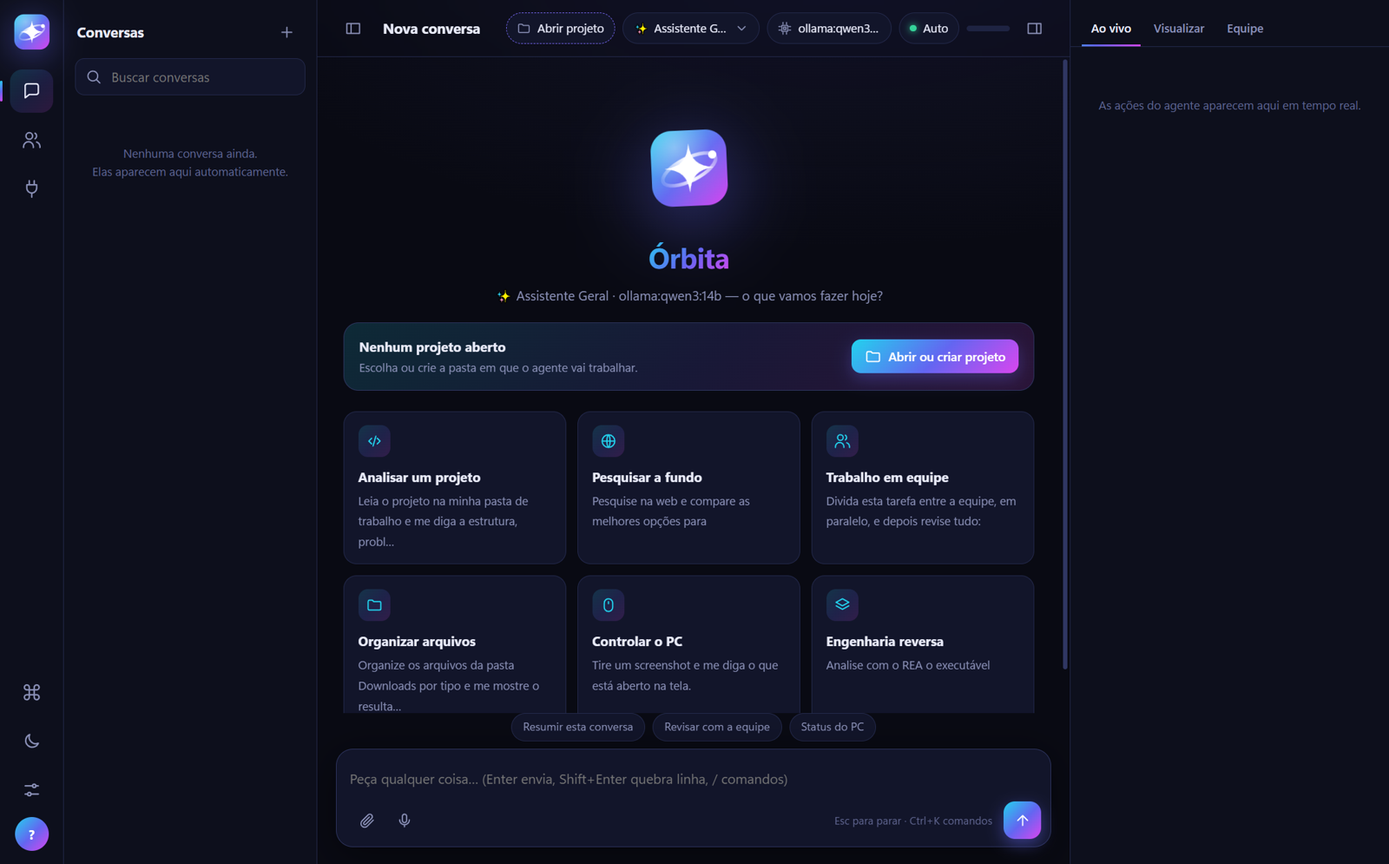
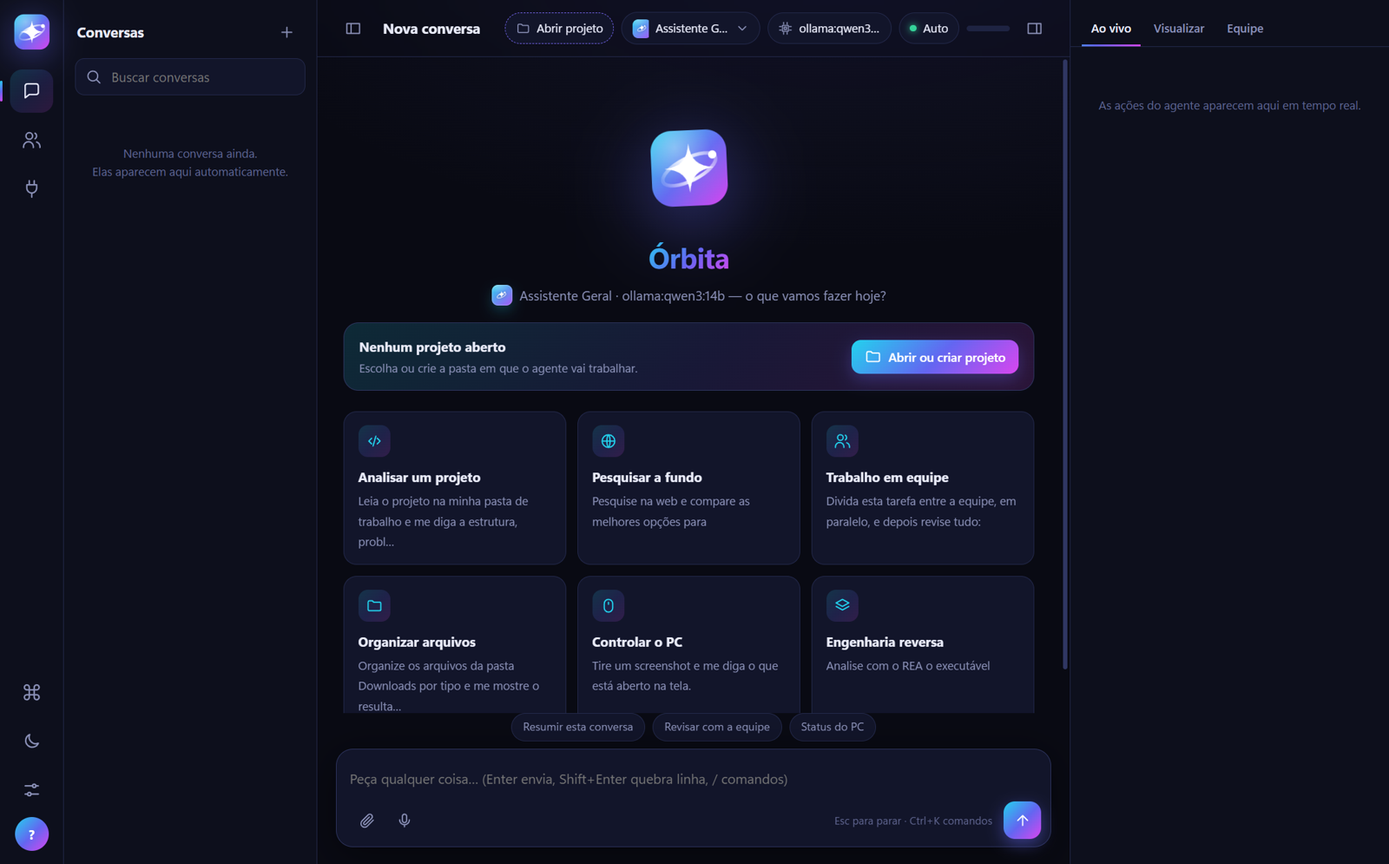
Ícones próprios para os agentes no lugar dos emojis
Cada perfil ganha um símbolo exclusivo em SVG sobre degradê (mesmo estilo do
logo): estrela em órbita, código, revisão, pesquisa, criação, DNA, raio,
automação, liderança e robô. Aparece nos cartões da equipe, no topo, no menu
de perfis, no painel da equipe e no editor, que ganhou um seletor de ícone.
Perfis já salvos com emoji são convertidos na exibição, sem migração.

pyflakes sem avisos, 62 testes; conferido na janela.

diff --git a/agent/ui/web/app.js b/agent/ui/web/app.js
@@ -49,6 +49,54 @@ const ICONS = {
   mouse: "M12 3a6 6 0 0 1 6 6v6a6 6 0 0 1-12 0V9a6 6 0 0 1 6-6zM12 7v3",
   layers: "M12 3l9 5-9 5-9-5zM3 13l9 5 9-5",
 };
+// ── Ícones dos agentes: símbolo próprio sobre degradê (substituem os emojis do Windows) ──
+const S_ = 'stroke="#fff" stroke-width="1.7" stroke-linecap="round" stroke-linejoin="round" fill="none"';
+const F_ = 'fill="#fff"';
+const AGENT_ICONS = {
+  spark: { label: "Órbita", a: "#22d3ee", b: "#a855f7", svg:
+    `<ellipse cx="12" cy="12.5" rx="9.6" ry="3.8" transform="rotate(-24 12 12.5)" ${S_} opacity=".65"/>
+     <path d="M12 3.6c.7 4.3 2.3 5.9 6.6 6.6-4.3.7-5.9 2.3-6.6 6.6-.7-4.3-2.3-5.9-6.6-6.6 4.3-.7 5.9-2.3 6.6-6.6z" ${F_}/>
+     <circle cx="18.6" cy="6" r="1.3" ${F_}/>` },
+  lead: { label: "Liderança", a: "#f59e0b", b: "#ef4444", svg:
+    `<circle cx="12" cy="5.5" r="2.4" ${F_}/><path d="M12 8v3.5M5.5 15.5v-2a2 2 0 0 1 2-2h9a2 2 0 0 1 2 2v2M12 11.5v4" ${S_}/>
+     <circle cx="5.5" cy="18" r="2.1" ${S_}/><circle cx="12" cy="18" r="2.1" ${S_}/><circle cx="18.5" cy="18" r="2.1" ${S_}/>` },
+  code: { label: "Código", a: "#3b82f6", b: "#06b6d4", svg:
+    `<path d="M8.5 7.5 4 12l4.5 4.5M15.5 7.5 20 12l-4.5 4.5" ${S_} stroke-width="2"/><path d="M13.4 5.5l-2.8 13" ${S_} opacity=".8"/>` },
+  review: { label: "Revisão", a: "#10b981", b: "#0d9488", svg:
+    `<circle cx="10.5" cy="10.5" r="6.2" ${S_}/><path d="m15.2 15.2 4.6 4.6" ${S_} stroke-width="2.2"/>
+     <path d="m7.9 10.6 1.9 1.9 3.4-3.6" ${S_} stroke-width="1.9"/>` },
+  research: { label: "Pesquisa", a: "#0ea5e9", b: "#6366f1", svg:
+    `<circle cx="11" cy="13" r="7.2" ${S_}/><path d="M3.8 13h14.4M11 5.8c2.2 2.2 2.2 12.2 0 14.4M11 5.8c-2.2 2.2-2.2 12.2 0 14.4" ${S_} opacity=".75"/>
+     <circle cx="19" cy="5" r="1.7" ${F_}/><path d="M17.6 6.4 15.9 8" ${S_} opacity=".7"/>` },
+  design: { label: "Criação", a: "#ec4899", b: "#f97316", svg:
+    `<path d="M12 3.5a8.5 8.5 0 1 0 0 17c1.1 0 1.7-.8 1.7-1.7 0-1.2-1-1.6-1-2.7 0-.9.8-1.5 1.7-1.5h2.3a3.8 3.8 0 0 0 3.8-3.8c0-4.1-3.8-7.3-8.5-7.3z" ${S_}/>
+     <circle cx="7.6" cy="11" r="1.25" ${F_}/><circle cx="9.9" cy="7.3" r="1.25" ${F_}/><circle cx="14.3" cy="7.3" r="1.25" ${F_}/><circle cx="16.9" cy="10.6" r="1.25" ${F_}/>` },
+  reverse: { label: "Engenharia reversa", a: "#a855f7", b: "#d946ef", svg:
+    `<path d="M7.5 3c0 4.6 9 4.4 9 9s-9 4.4-9 9M16.5 3c0 4.6-9 4.4-9 9s9 4.4 9 9" ${S_}/>
+     <path d="M9 6.2h6M9.4 17.8h5.2" ${S_} opacity=".7"/>` },
+  bolt: { label: "Agente externo", a: "#facc15", b: "#f97316", svg:
+    `<path d="M13.6 2.8 5.2 13.4h5.9l-1 7.8 8.7-11h-6z" ${F_}/>` },
+  cursor: { label: "Automação", a: "#14b8a6", b: "#22c55e", svg:
+    `<path d="M4 6a2 2 0 0 1 2-2h10a2 2 0 0 1 2 2v4.5M4 6v8a2 2 0 0 0 2 2h4.5M4 8h14" ${S_}/>
+     <path d="m13 12.2 7.6 2.9-3.3 1.3-1.3 3.3z" ${F_}/>` },
+  bot: { label: "Agente", a: "#64748b", b: "#6366f1", svg:
+    `<rect x="4.5" y="8" width="15" height="11" rx="3" ${S_}/><path d="M12 4.5V8" ${S_}/><circle cx="12" cy="4" r="1.2" ${F_}/>
+     <circle cx="9.3" cy="13.2" r="1.3" ${F_}/><circle cx="14.7" cy="13.2" r="1.3" ${F_}/>` },
+};
+// Perfis salvos antes trazem emoji: continuam funcionando, agora com o ícone novo.
+const EMOJI_TO_ICON = { "✨": "spark", "🧠": "lead", "💻": "code", "🔍": "review", "🌐": "research", "🎨": "design",
+                        "🧬": "reverse", "⚡": "bolt", "🖱": "cursor", "🖱": "cursor", "🤖": "bot" };
+function agentIconKey(value) {
+  const v = String(value || "").trim();
+  return AGENT_ICONS[v] ? v : (EMOJI_TO_ICON[v] || (v ? null : "bot"));
+}
+function agentIcon(p, size = 40) {
+  const key = agentIconKey(p && p.icon);
+  if (!key) return `<span class="agent-ic emoji" style="--s:${size}px">${esc(p.icon)}</span>`;  // emoji escolhido pelo usuário
+  const ic = AGENT_ICONS[key];
+  return `<span class="agent-ic" style="--s:${size}px;--a:${ic.a};--b:${ic.b}" title="${esc(ic.label)}"><svg viewBox="0 0 24 24">${ic.svg}</svg></span>`;
+}
+
 function icon(name, cls = "i") {
   return `<svg class="${cls}" viewBox="0 0 24 24"><path d="${ICONS[name] || ICONS.sparkle}"/></svg>`;
 }
@@ -197,7 +245,7 @@ function autosize() { const i = $("#input"); i.style.height = "auto"; i.style.he
 // ── Topo do chat ───────────────────────────────────────────────────────────────
 function renderTopbar() {
   const p = S.profile || {};
-  $("#profile-ic").textContent = p.icon || "✨";
+  $("#profile-ic").innerHTML = agentIcon(p, 20);
   $("#profile-name").textContent = p.name || "Perfil";
   $("#project-name").textContent = S.workspace_set ? (S.workspace_name || "Projeto") : "Abrir projeto";
   $("#chip-project").classList.toggle("need", !S.workspace_set);
@@ -223,11 +271,11 @@ async function cyclePermission() {
 }
 function profileMenu() {
   openModal(`<div class="modal palette"><input id="pf-q" placeholder="Trocar perfil…"><div class="opts">${
-    S.profiles.map(p => `<div class="opt" data-id="${esc(p.id)}"><span style="font-size:18px">${esc(p.icon)}</span><div><b>${esc(p.name)}</b><div style="font-size:12px">${esc(p.description)}</div></div>${p.id === S.profile.id ? icon("check") : ""}</div>`).join("")
+    S.profiles.map(p => `<div class="opt" data-id="${esc(p.id)}">${agentIcon(p, 34)}<div><b>${esc(p.name)}</b><div style="font-size:12px">${esc(p.description)}</div></div>${p.id === S.profile.id ? icon("check") : ""}</div>`).join("")
   }</div></div>`);
   $$(".opt", $("#modal-root")).forEach(o => o.addEventListener("click", async () => {
     S = await call("selectProfile", o.dataset.id); closeModal(); renderAll();
-    toast("success", "Perfil ativo", `${S.profile.icon} ${S.profile.name} · ${S.model_label}`);
+    toast("success", "Perfil ativo", `${S.profile.name} · ${S.model_label}`);
   }));
   filterOpts("#pf-q");
 }
@@ -300,7 +348,7 @@ function renderWelcome() {
   const project = S.workspace_set ? (S.workspace || "") : "";
   $("#messages").innerHTML = `<div class="welcome"><img class="orb" src="logo.svg" alt="">
     <h1>${name ? `Olá, <span>${esc(name)}</span>` : `<span>Órbita</span>`}</h1>
-    <p>${esc(S.profile?.icon || "")} ${esc(S.profile?.name || "")} · ${esc(S.model_label || "")} — o que vamos fazer hoje?</p>
+    <p class="who-line">${agentIcon(S.profile, 22)} ${esc(S.profile?.name || "")} · ${esc(S.model_label || "")} — o que vamos fazer hoje?</p>
     <div class="project-banner"><div class="txt"><b>${project ? "Projeto aberto" : "Nenhum projeto aberto"}</b><span>${project ? esc(project) : "Escolha ou crie a pasta em que o agente vai trabalhar."}</span></div><button class="btn primary" id="welcome-project">${icon("folder")} ${project ? "Trocar projeto" : "Abrir ou criar projeto"}</button></div>
     <div class="cards">${cards.map(([ic, t, p]) => `<div class="card" data-prompt="${esc(p)}"><div class="ci">${icon(ic)}</div><b>${t}</b><span>${esc(p.length > 70 ? p.slice(0, 70) + "…" : p)}</span></div>`).join("")}</div></div>`;
   const openProject = $("#welcome-project");
@@ -461,7 +509,7 @@ function feed(kind, html) {
 }
 function renderAgents(live = {}) {
   const team = S.team || [];
-  $("#agents").innerHTML = team.map(m => `<div class="agent-row"><span class="em">${esc(m.icon)}</span><div class="grow"><b>${esc(m.name)}</b><div class="sm">${esc(m.model_label)}</div></div>${live[m.name] ? `<span class="spin"></span>` : ""}</div>`).join("")
+  $("#agents").innerHTML = team.map(m => `<div class="agent-row">${agentIcon(m, 30)}<div class="grow"><b>${esc(m.name)}</b><div class="sm">${esc(m.model_label)}</div></div>${live[m.name] ? `<span class="spin"></span>` : ""}</div>`).join("")
     + `<button class="btn small" data-go="team">${icon("edit")} Configurar equipe</button>`;
 }
 function setLive(on, text) {
@@ -493,13 +541,13 @@ function onEvent(e) {
       else feed(e.status, `${e.status === "ok" ? "✓" : "✗"} ${esc(toolInfo(e.name)[1])}`);
       if ((e.images || []).length) preview({ path: e.images[0], kind: "image" });
       break;
-    case "sub_start": subCard(e, false); feed("sub", `👥 <b>${esc(e.agent)}</b> começou com <b>${esc(e.model)}</b>`); renderAgents({ [e.agent.replace(/ #\d+$/, "")]: true }); break;
+    case "sub_start": subCard(e, false); feed("sub", `<b>${esc(e.agent)}</b> começou com <b>${esc(e.model)}</b>`); renderAgents({ [e.agent.replace(/ #\d+$/, "")]: true }); break;
     case "sub_end": subCard(e, true); feed("ok", `✓ <b>${esc(e.agent)}</b> terminou (${fmt(e.tokens)} tokens)`); renderAgents(); break;
     case "status": setLive(true, e.text); break;
     case "usage": S.conversation_tokens = e.total; updateMeter(e.total); break;
     case "turn_end": closeTurn(); refreshConvs().then(() => { S.conversation_id = e.conversation_id || S.conversation_id; S.conversation_title = e.title || S.conversation_title; renderTopbar(); renderConvs(); }); break;
     case "error": note("⚠ " + e.message, "err"); toast("error", "Erro", e.message); break;
-    case "compacted": note(`🗜 Histórico compactado: ${e.messages} mensagens antigas viraram um resumo`); break;
+    case "compacted": note(`Histórico compactado: ${e.messages} mensagens antigas viraram um resumo`); break;
     case "approval": approval(e); break;
     case "preview": preview(e); break;
     case "toast": toast(e.kind, e.title, e.text); break;
@@ -590,7 +638,7 @@ function palette(initial = "") {
     ["moon", "Alternar tema claro/escuro", () => action("theme")],
     ["key", "Chaves de API", () => { settingsSection = "chaves"; go("settings"); }],
     ["bolt", "Conta Grok (xAI)", () => { settingsSection = "grok"; go("settings"); }],
-    ...(S.profiles || []).map(p => [null, `Perfil: ${p.icon} ${p.name}`, async () => { S = await call("selectProfile", p.id); renderAll(); toast("success", "Perfil ativo", p.name); }]),
+    ...(S.profiles || []).map(p => [null, `Perfil: ${p.name}`, async () => { S = await call("selectProfile", p.id); renderAll(); toast("success", "Perfil ativo", p.name); }]),
     ...(S.quick_prompts || []).map(q => ["sparkle", `Prompt: ${q.label}`, () => { $("#input").value = q.text; autosize(); $("#input").focus(); }]),
   ];
   openModal(`<div class="modal palette"><input id="pl-q" placeholder="Digite um comando…" value="${esc(initial)}"><div class="opts">${
@@ -619,7 +667,7 @@ function filterOpts(sel) {
 
 // ── Página: Equipe e perfis ────────────────────────────────────────────────────
 function renderTeamPage() {
-  const tile = p => `<div class="tile"><div class="top"><div class="em">${esc(p.icon)}</div><div style="flex:1"><h3>${esc(p.name)}</h3>
+  const tile = p => `<div class="tile"><div class="top"><div class="em has-ic">${agentIcon(p, 44)}</div><div style="flex:1"><h3>${esc(p.name)}</h3>
     ${p.in_team ? `<span class="tag grad">equipe</span>` : ""}${p.id === S.profile.id ? `<span class="tag grad">ativo</span>` : ""}${p.auto_startup ? `<span class="tag">prompt inicial</span>` : ""}</div></div>
     <div class="desc">${esc(p.description || "Sem descrição")}</div>
     <div>${(p.skills_tags || []).map(t => `<span class="tag">${esc(t)}</span>`).join("")}</div>
@@ -639,10 +687,12 @@ function providerOptions(selected, allowEmpty) {
 }
 function profileEditor(p) {
   const isNew = !p;
-  p = p || { id: "", name: "", icon: "🤖", description: "", system_prompt: "", startup_prompt: "", auto_startup: false, provider: "", model: "", temperature: null, effort: "", workspace: "", tool_groups: S.all_groups, mcp_servers: [], max_steps: null, in_team: false, skills_tags: [], bound: false };
+  p = p || { id: "", name: "", icon: "bot", description: "", system_prompt: "", startup_prompt: "", auto_startup: false, provider: "", model: "", temperature: null, effort: "", workspace: "", tool_groups: S.all_groups, mcp_servers: [], max_steps: null, in_team: false, skills_tags: [], bound: false };
   const groupLabels = { arquivos: "Arquivos", shell: "Terminal", web: "Internet", pc: "Controle do PC", memoria: "Memória", skills: "Skills", agentes: "Equipe", mcp: "MCP", imagem: "Imagens" };
   openModal(`<div class="modal wide"><h2>${isNew ? "Novo perfil" : "Editar perfil"}</h2><p class="sub">O prompt de sistema entra em toda conversa; o prompt inicial é enviado sozinho ao abrir uma conversa.</p>
-    <div class="row"><input class="inp" id="pe-icon" style="width:64px;text-align:center;font-size:18px" value="${esc(p.icon)}"><input class="inp" id="pe-name" style="flex:1" placeholder="Nome" value="${esc(p.name)}"></div>
+    <div class="row"><input type="hidden" id="pe-icon" value="${esc(agentIconKey(p.icon) || p.icon)}"><input class="inp" id="pe-name" style="flex:1" placeholder="Nome" value="${esc(p.name)}"></div>
+    <div class="icon-pick" id="pe-icons" style="margin-top:10px">${Object.keys(AGENT_ICONS).map(k =>
+      `<button type="button" data-icon="${k}" class="${(agentIconKey(p.icon) || "") === k ? "on" : ""}" title="${esc(AGENT_ICONS[k].label)}">${agentIcon({ icon: k }, 34)}</button>`).join("")}</div>
     <div style="margin-top:10px"><input class="inp" id="pe-desc" placeholder="Descrição de uma linha (o agente principal lê isto para delegar)" value="${esc(p.description)}"></div>
     <div style="margin-top:12px"><b>Prompt de sistema (injeção)</b><textarea class="inp" id="pe-sys" placeholder="Ex.: Você é especialista em React + TypeScript…">${esc(p.system_prompt)}</textarea></div>
     <div style="margin-top:12px"><b>Prompt inicial</b><textarea class="inp" id="pe-start" style="min-height:70px" placeholder="Ex.: Leia o README do projeto e me diga o estado atual.">${esc(p.startup_prompt)}</textarea>
@@ -660,11 +710,15 @@ function profileEditor(p) {
     <div class="actions">${!isNew && p.id !== "geral" ? `<button class="btn danger" id="pe-del">${icon("trash")} Apagar</button>` : ""}<span style="flex:1"></span><button class="btn" id="pe-cancel">Cancelar</button><button class="btn primary" id="pe-save">Salvar perfil</button></div></div>`, false);
   const fillModels = () => { const prov = S.providers.find(x => x.id === $("#pe-prov").value); $("#pe-models").innerHTML = (prov?.models || []).map(m => `<option value="${esc(m)}">`).join(""); };
   $("#pe-prov").onchange = fillModels; fillModels();
+  $$("[data-icon]", $("#pe-icons")).forEach(b => b.addEventListener("click", () => {
+    $("#pe-icon").value = b.dataset.icon;
+    $$("[data-icon]", $("#pe-icons")).forEach(x => x.classList.toggle("on", x === b));
+  }));
   $("#pe-pick").onclick = async () => { const f = await call("pickFolder", $("#pe-ws").value); if (f) $("#pe-ws").value = f; };
   $("#pe-cancel").onclick = closeModal;
   if ($("#pe-del")) $("#pe-del").onclick = async () => { if (await confirmBox("Apagar perfil?", p.name)) { S = await call("deleteProfile", p.id); renderAll(); renderTeamPage(); } };
   $("#pe-save").onclick = async () => {
-    const data = { id: p.id, name: $("#pe-name").value.trim(), icon: $("#pe-icon").value.trim() || "🤖", description: $("#pe-desc").value.trim(),
+    const data = { id: p.id, name: $("#pe-name").value.trim(), icon: $("#pe-icon").value.trim() || "bot", description: $("#pe-desc").value.trim(),
       system_prompt: $("#pe-sys").value.trim(), startup_prompt: $("#pe-start").value.trim(), auto_startup: $("#pe-auto").checked,
       provider: $("#pe-prov").value, model: $("#pe-prov").value ? $("#pe-model").value.trim() : "",
       temperature: $("#pe-temp").value === "" ? null : +$("#pe-temp").value, effort: p.effort || "", max_tokens: p.max_tokens ?? null,
@@ -1017,7 +1071,7 @@ function showOnboarding() {
     $("#ob-next").onclick = async () => {
       if (step < steps.length - 1) { step++; return render(); }
       S = await call("completeOnboarding", JSON.stringify(data)); closeModal(); renderAll();
-      toast("success", "Configuração concluída", `${S.profile.icon} ${S.profile.name} · ${S.model_label}`);
+      toast("success", "Configuração concluída", `${S.profile.name} · ${S.model_label}`);
     };
   };
   const detail = () => {

diff --git a/agent/ui/web/app.css b/agent/ui/web/app.css
@@ -374,3 +374,22 @@ label.row { cursor: pointer; }
 @media (max-width: 1700px) { #meter-txt { display: none; } #topbar #chip-project { max-width: 170px; } }
 @media (max-width: 1450px) { #profile-name { display: none; } }
 .toast span { overflow-wrap: anywhere; }
+
+/* ── Ícones dos agentes ───────────────────────── */
+.agent-ic { --s: 40px; width: var(--s); height: var(--s); flex: none; display: inline-grid; place-items: center;
+  border-radius: calc(var(--s) * .3); position: relative; overflow: hidden; vertical-align: middle;
+  background: linear-gradient(140deg, var(--a), var(--b));
+  box-shadow: 0 6px 18px -6px var(--a), inset 0 0 0 1px rgba(255,255,255,.18);
+  transition: transform .2s ease, box-shadow .2s ease; }
+.agent-ic::after { content: ""; position: absolute; inset: 0; border-radius: inherit;
+  background: radial-gradient(120% 70% at 25% 0%, rgba(255,255,255,.38), transparent 55%); pointer-events: none; }
+.agent-ic svg { width: 58%; height: 58%; position: relative; z-index: 1; filter: drop-shadow(0 1px 1.5px rgba(0,0,0,.25)); }
+.agent-ic.emoji { background: var(--panel3); box-shadow: inset 0 0 0 1px var(--line2); font-size: calc(var(--s) * .5); }
+.tile:hover .agent-ic, .opt:hover .agent-ic, .agent-row:hover .agent-ic { transform: translateY(-1px) rotate(-4deg) scale(1.04);
+  box-shadow: 0 10px 24px -6px var(--a), inset 0 0 0 1px rgba(255,255,255,.25); }
+.tile .em.has-ic { background: none; width: auto; height: auto; }
+.chip .agent-ic { box-shadow: none; }
+.icon-pick { display: flex; flex-wrap: wrap; gap: 8px; }
+.icon-pick button { border: 2px solid transparent; background: none; padding: 2px; border-radius: 14px; cursor: pointer; }
+.icon-pick button.on { border-color: var(--accent); }
+.welcome .who-line { display: flex; align-items: center; justify-content: center; gap: 8px; flex-wrap: wrap; }

diff --git a/agent/ui/web/index.html b/agent/ui/web/index.html
@@ -39,7 +39,7 @@
         <button class="icon-btn" data-action="toggle-convs" title="Mostrar/ocultar conversas"><svg class="i" data-ic="sidebar"></svg></button>
         <div id="conv-title" contenteditable="true" spellcheck="false">Nova conversa</div>
         <button class="chip need" id="chip-project" title="Abrir ou criar a pasta do projeto"><svg class="i" data-ic="folder"></svg><span id="project-name">Abrir projeto</span></button>
-        <button class="chip" id="chip-profile" title="Trocar perfil"><span id="profile-ic">✨</span><span id="profile-name">Perfil</span><svg class="i" data-ic="chevdown"></svg></button>
+        <button class="chip" id="chip-profile" title="Trocar perfil"><span id="profile-ic"></span><span id="profile-name">Perfil</span><svg class="i" data-ic="chevdown"></svg></button>
         <button class="chip" id="chip-model" title="Modelo — altere em Configurações › Modelos"><svg class="i" data-ic="cpu"></svg><span id="model-name">modelo</span></button>
         <button class="chip" id="chip-perm" title="Permissões (clique para alternar)"><span class="led"></span><span id="perm-name">auto</span></button>
         <div class="meter" title="Tokens desta conversa / orçamento por tarefa"><div class="bar"><i id="meter-bar"></i></div><span id="meter-txt">0</span></div>

diff --git a/agent/core/profiles.py b/agent/core/profiles.py
@@ -37,7 +37,7 @@ ALL_GROUPS = ["arquivos", "shell", "web", "pc", "memoria", "skills", "agentes", 
 class Profile:
     id: str
     name: str
-    icon: str = "🤖"
+    icon: str = "bot"                     # chave de ícone da interface (spark, code, review...) ou emoji
     description: str = ""
     system_prompt: str = ""
     startup_prompt: str = ""
@@ -73,19 +73,19 @@ LEAD_DEV_PROMPT = """Você é o LÍDER TÉCNICO de uma equipe de agentes de IA. 
 
 DEFAULT_PROFILES: list[Profile] = [
     Profile(
-        id="geral", name="Assistente Geral", icon="✨",
+        id="geral", name="Assistente Geral", icon="spark",
         description="Agente principal: conversa, pesquisa, arquivos, PC e coordena a equipe.",
         system_prompt="Seja um parceiro proativo, técnico e direto. Resolva o pedido de ponta a ponta usando as "
                       "ferramentas, carregue skills relevantes com use_skill e valide alterações com verify_project.",
     ),
     Profile(
-        id="lider_dev", name="Líder de Desenvolvimento", icon="🧠",
+        id="lider_dev", name="Líder de Desenvolvimento", icon="lead",
         description="Planeja, divide o trabalho entre programadores em paralelo, revisa e integra.",
         system_prompt=LEAD_DEV_PROMPT,
         tool_groups=["arquivos", "shell", "web", "memoria", "skills", "agentes", "mcp", "imagem"],
     ),
     Profile(
-        id="programador", name="Programador", icon="💻", in_team=True,
+        id="programador", name="Programador", icon="code", in_team=True,
         description="Implementa código com qualidade: lê antes de editar, faz mudanças mínimas e testa.",
         skills_tags=["código", "debug", "testes", "refatoração"],
         system_prompt="Você é um Staff Software Engineer. Leia o código relevante antes de editar, siga o estilo "
@@ -95,7 +95,7 @@ DEFAULT_PROFILES: list[Profile] = [
         temperature=0.2,
     ),
     Profile(
-        id="revisor", name="Revisor de Código", icon="🔍", in_team=True,
+        id="revisor", name="Revisor de Código", icon="review", in_team=True,
         description="Revisa código procurando bugs reais, falhas de segurança, gargalos e código morto.",
         skills_tags=["revisão", "segurança", "desempenho"],
         system_prompt="Você é um revisor de código exigente (use a skill 'code-review-simplify' quando aplicável). "
@@ -106,7 +106,7 @@ DEFAULT_PROFILES: list[Profile] = [
         temperature=0.1,
     ),
     Profile(
-        id="pesquisador", name="Pesquisador", icon="🌐", in_team=True,
+        id="pesquisador", name="Pesquisador", icon="research", in_team=True,
         description="Pesquisa na web, lê fontes e entrega respostas com citações. Bom para descobrir "
                     "bibliotecas, APIs, modelos e as melhores ferramentas para uma tarefa.",
         skills_tags=["pesquisa", "comparação", "documentação"],
@@ -117,7 +117,7 @@ DEFAULT_PROFILES: list[Profile] = [
         temperature=0.3,
     ),
     Profile(
-        id="designer", name="Designer & Criativo", icon="🎨", in_team=True,
+        id="designer", name="Designer & Criativo", icon="design", in_team=True,
         description="Cria imagens, ícones, UI assets, storyboards e vídeos com consistência visual.",
         skills_tags=["imagem", "vídeo", "ícones", "UI"],
         system_prompt="Você é um diretor de arte e criador multimídia. Para séries, storyboards ou vídeos, "
@@ -126,7 +126,7 @@ DEFAULT_PROFILES: list[Profile] = [
         tool_groups=["imagem", "arquivos", "shell", "skills"],
     ),
     Profile(
-        id="engenharia_reversa", name="Engenharia Reversa (REA)", icon="🧬", in_team=True,
+        id="engenharia_reversa", name="Engenharia Reversa (REA)", icon="reverse", in_team=True,
         description="Analisa binários, apps Electron/JS, .NET, APKs, sites e firmware com o REA.",
         skills_tags=["engenharia reversa", "binários", "decompilação"],
         system_prompt="Use o servidor MCP 'rea' para análises de artefatos compilados. Comece carregando a "
@@ -137,7 +137,7 @@ DEFAULT_PROFILES: list[Profile] = [
         mcp_servers=["rea"],
     ),
     Profile(
-        id="grok_build", name="Grok Build (xAI)", icon="⚡", in_team=True,
+        id="grok_build", name="Grok Build (xAI)", icon="bolt", in_team=True,
         description="Agente de programação da xAI rodando com a SUA conta Grok: lê, edita e testa código "
                     "sozinho na pasta de trabalho. Ótimo para implementar partes inteiras de um projeto.",
         skills_tags=["código", "agente externo", "conta xAI"],
@@ -146,7 +146,7 @@ DEFAULT_PROFILES: list[Profile] = [
         tool_groups=["arquivos", "shell", "web"],
     ),
     Profile(
-        id="automacao_pc", name="Automação do PC", icon="🖱",
+        id="automacao_pc", name="Automação do PC", icon="cursor",
         description="Controla o computador: abre programas, vê a tela, clica, digita, organiza arquivos.",
         system_prompt="Você opera o computador do usuário. Antes de clicar, tire um screenshot para ver a "
                       "tela; depois de cada ação importante, confirme o resultado com outro screenshot. "

diff --git a/CHANGELOG.md b/CHANGELOG.md
@@ -19,6 +19,9 @@ Formato inspirado em [Keep a Changelog](https://keepachangelog.com/pt-BR/1.1.0/)
 ## [Não lançado]
 
 ### Melhorias
+- Ícones próprios para os agentes, no lugar dos emojis do Windows: cada perfil tem símbolo e cor exclusivos
+  (estrela em órbita, código, revisão, pesquisa, criação, DNA, raio, automação, liderança, robô). O editor de
+  perfil ganhou um seletor de ícone; perfis antigos com emoji passam a usar o ícone correspondente sozinhos.
 - Agentes de pesquisa (perfil com especialidade "pesquisa" e acesso à web, como o Pesquisador) passam a receber o
   protocolo "Descobrir o melhor agente" e a lista dos modelos com acesso: pesquisam fontes atuais, recomendam o
   melhor modelo disponível e uma alternativa, e oferecem a configuração sem alterar nada sozinhos.

diff --git a/ROADMAP.md b/ROADMAP.md
@@ -177,3 +177,6 @@ Legenda: `[x]` feito e verificado · `[~]` parcial · `[ ]` pendente · ⭐ prio
   automática ficou como item `[ ]`. Verificado: pyflakes 0 avisos; pytest 62 passando (60 anteriores + 2 novos:
   protocolo e tabela presentes no Pesquisador; ausentes no Assistente Geral). Não testado com modelo real nem na
   interface (não há mudança visual).
+- **2026-10-16 — Claude (Opus 5.5)**: conjunto de ícones próprio para os agentes (SVG em degradê, mesmo estilo do
+  logo) substituindo os emojis em cartões, topo, menus, painel da equipe e editor (com seletor). Emojis de perfis
+  já salvos são convertidos na exibição. Verificado na janela (capturas da equipe, menu e editor); 60 testes.
